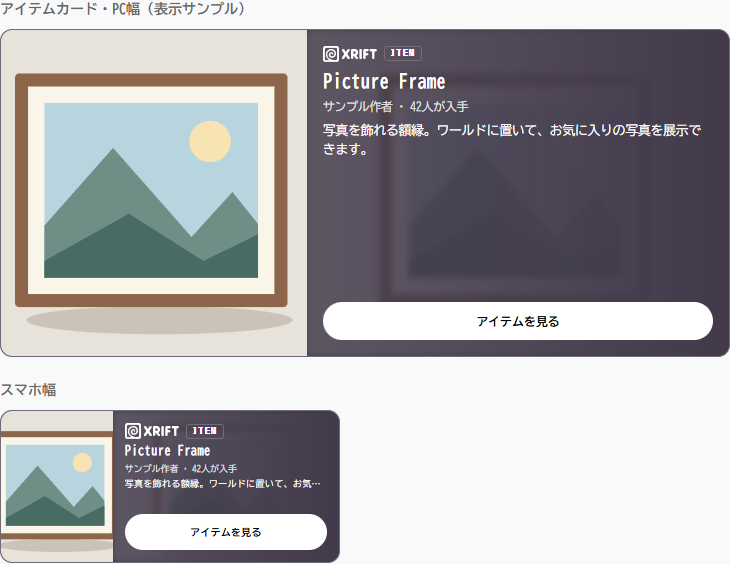
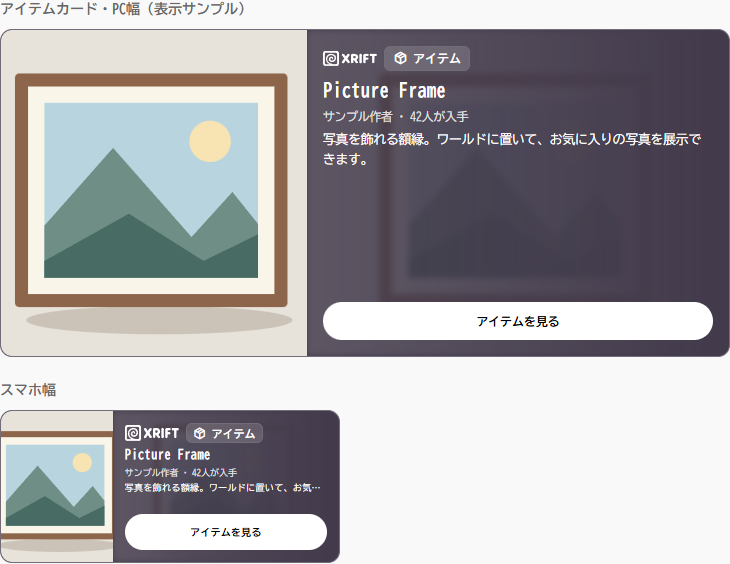
style(gridspace): emphasize XRift preview types

Changed region(s): [[0.4219, 0.0603, 0.9644, 0.3014], [0.1507, 0.7234, 0.4521, 0.8741]]

diff --git a/packages/frontend/src/components/MkXriftPreview.vue b/packages/frontend/src/components/MkXriftPreview.vue
@@ -53,7 +53,16 @@ SPDX-License-Identifier: AGPL-3.0-only
 					<div :class="[$style.skeleton, $style.skeletonButton]"></div>
 				</template>
 				<template v-else>
-					<div :class="$style.brandRow"><img :class="$style.brand" src="/client-assets/xrift/logo-white.svg" alt="XRift" width="886" height="259"/><span :class="$style.type">{{ typeLabel }}</span></div>
+					<div :class="$style.brandRow">
+						<img :class="$style.brand" src="/client-assets/xrift/logo-white.svg" alt="XRift" width="886" height="259"/>
+						<span :class="$style.type">
+							<i v-if="type === 'world'" class="ti ti-world" aria-hidden="true"></i>
+							<i v-else-if="type === 'instance'" class="ti ti-users" aria-hidden="true"></i>
+							<i v-else-if="type === 'item'" class="ti ti-package" aria-hidden="true"></i>
+							<i v-else class="ti ti-user" aria-hidden="true"></i>
+							<span>{{ typeLabel }}</span>
+						</span>
+					</div>
 					<p v-if="isLive" :class="$style.invitation">{{ i18n.ts._xriftPreview.invitation }}</p>
 					<h3 :class="$style.title">{{ heading }}</h3>
 					<p v-if="state === 'available' && (data?.creator || metaDetail)" :class="[$style.meta, { [$style.instanceMeta]: isLive, [$style.worldMeta]: type === 'world' }]">
@@ -204,7 +213,7 @@ function hideFailedImage(event: Event): void {
 .bodyBackdrop { position: absolute; z-index: -1; inset: 0; width: 100%; height: 100%; object-fit: cover; opacity: 0.16; filter: blur(3px); mask-image: linear-gradient(to right, black, transparent 95%); pointer-events: none; }
 .brandRow { display: flex; align-items: center; gap: 7px; flex-shrink: 0; }
 .brand { display: block; width: 54px; height: auto; flex-shrink: 0; }
-.type { padding: 1px 5px; border: 1px solid var(--xrift-border); border-radius: 3px; font: 700 9px/1.2 monospace; letter-spacing: 0.06em; }
+.type { display: inline-flex; align-items: center; min-width: 0; gap: 5px; padding: 4px 8px; border: 1px solid var(--xrift-border); border-radius: 6px; background: color-mix(in srgb, var(--xrift-fg) 15%, transparent); color: var(--xrift-fg); font-size: 12px; font-weight: 750; line-height: 1.2; white-space: nowrap; > i { flex-shrink: 0; } > span { min-width: 0; overflow: hidden; text-overflow: ellipsis; } }
 .title { flex-shrink: 0; margin: 0; font-size: 1.35em; line-height: 1.35; font-weight: 750; overflow-wrap: anywhere; display: -webkit-box; -webkit-box-orient: vertical; -webkit-line-clamp: 2; overflow: hidden; }
 .meta { flex-shrink: 0; margin: 0; color: var(--xrift-muted); font-size: 0.83em; overflow: hidden; text-overflow: ellipsis; white-space: nowrap; }
 .instanceMeta { display: flex; align-items: baseline; gap: 3px; .creator { min-width: 0; overflow: hidden; text-overflow: ellipsis; } .metaDetail { flex-shrink: 0; } }
@@ -271,6 +280,7 @@ function hideFailedImage(event: Event): void {
 	.card { grid-template-columns: 33% minmax(0, 1fr); font-size: 12px; }
 	.body { padding: 12px; gap: 3px; }
 	.title { font-size: 1.1em; -webkit-line-clamp: 1; }
+	.type { padding: 2px 6px; font-size: 11px; }
 	.body .meta { font-size: 0.75em; }
 	.description { font-size: 0.78em; line-height: 1.3; -webkit-line-clamp: 1; }
 	.invitation, .secondary { display: none; }
@@ -289,7 +299,7 @@ function hideFailedImage(event: Event): void {
 @container (max-width: 320px) {
 	.body .meta:not(.instanceMeta) { display: none; }
 	.card.live .title { -webkit-line-clamp: 1; }
-	.body { padding: 10px; gap: 2px; }
+	.body { padding: 8px; gap: 1px; }
 }
 @media (prefers-reduced-motion: reduce) {
 	.worldGrid { scroll-behavior: auto; }

diff --git a/packages/frontend/test/unit/xrift-preview.test.ts b/packages/frontend/test/unit/xrift-preview.test.ts
@@ -16,7 +16,7 @@ afterEach(cleanup);
 describe('XRift cards', () => {
 	test('items display their creator, acquisition count and a marketplace link', () => {
 		const view = render(MkXriftPreview, { props: Item.args });
-		expect(view.getByText('ITEM')).toBeTruthy();
+		expect(view.getByText('アイテム')).toBeTruthy();
 		expect(view.getByText('42人が入手')).toBeTruthy();
 		expect(view.getByText('Item creator')).toBeTruthy();
 		expect(view.getByRole('link', { name: 'アイテムを見る' }).getAttribute('href')).toBe(Item.args.url);
@@ -30,12 +30,14 @@ describe('XRift cards', () => {
 	});
 	test('shows visits, public rooms and a working world link', () => {
 		const view = render(MkXriftPreview, { props: World.args });
+		expect(view.getByText('ワールド')).toBeTruthy();
 		expect(view.getAllByText('12,345').length).toBeGreaterThan(0);
 		expect(view.getByText('2インスタンス公開中')).toBeTruthy();
 		expect(view.getByRole('link', { name: 'ブラウザで入る' }).getAttribute('href')).toBe(World.args.url);
 	});
 	test('a room has distinct join and world links and elapsed time', () => {
 		const view = render(MkXriftPreview, { props: Room.args });
+		expect(view.getByText('インスタンス')).toBeTruthy();
 		expect(view.queryByText('LIVE')).toBeNull();
 		expect(view.getByRole('link', { name: 'このインスタンスに参加' }).getAttribute('href')).toBe(Room.args.url);
 		expect(view.getByRole('link', { name: 'ワールドを見る' }).getAttribute('href')).toBe(World.args.url);

diff --git a/packages/frontend/test/unit/url-preview.test.ts b/packages/frontend/test/unit/url-preview.test.ts
@@ -185,7 +185,7 @@ describe('MkUrlPreview', () => {
 	});
 	test('recognizes marketplace item URLs as XRift cards', async () => {
 		const preview = await renderPreviewBy({ ...xriftSummary, url: xriftSummary.url.replace('/world/', '/marketplace/'), xrift: { type: 'item', state: 'available', creator: 'Item creator', acquireCount: 15 } });
-		preview.getByText('ITEM');
+		preview.getByText('アイテム');
 		assert.strictEqual(preview.getByRole('link').getAttribute('href'), xriftSummary.url.replace('/world/', '/marketplace/'));
 	});
 

diff --git a/packages/i18n/src/autogen/locale.ts b/packages/i18n/src/autogen/locale.ts
@@ -15163,19 +15163,19 @@ export interface Locale extends ILocale {
     };
     "_xriftPreview": {
         /**
-         * WORLD
+         * ワールド
          */
         "world": string;
         /**
-         * ITEM
+         * アイテム
          */
         "item": string;
         /**
-         * INSTANCE
+         * インスタンス
          */
         "room": string;
         /**
-         * USER
+         * プロフィール
          */
         "user": string;
         /**
